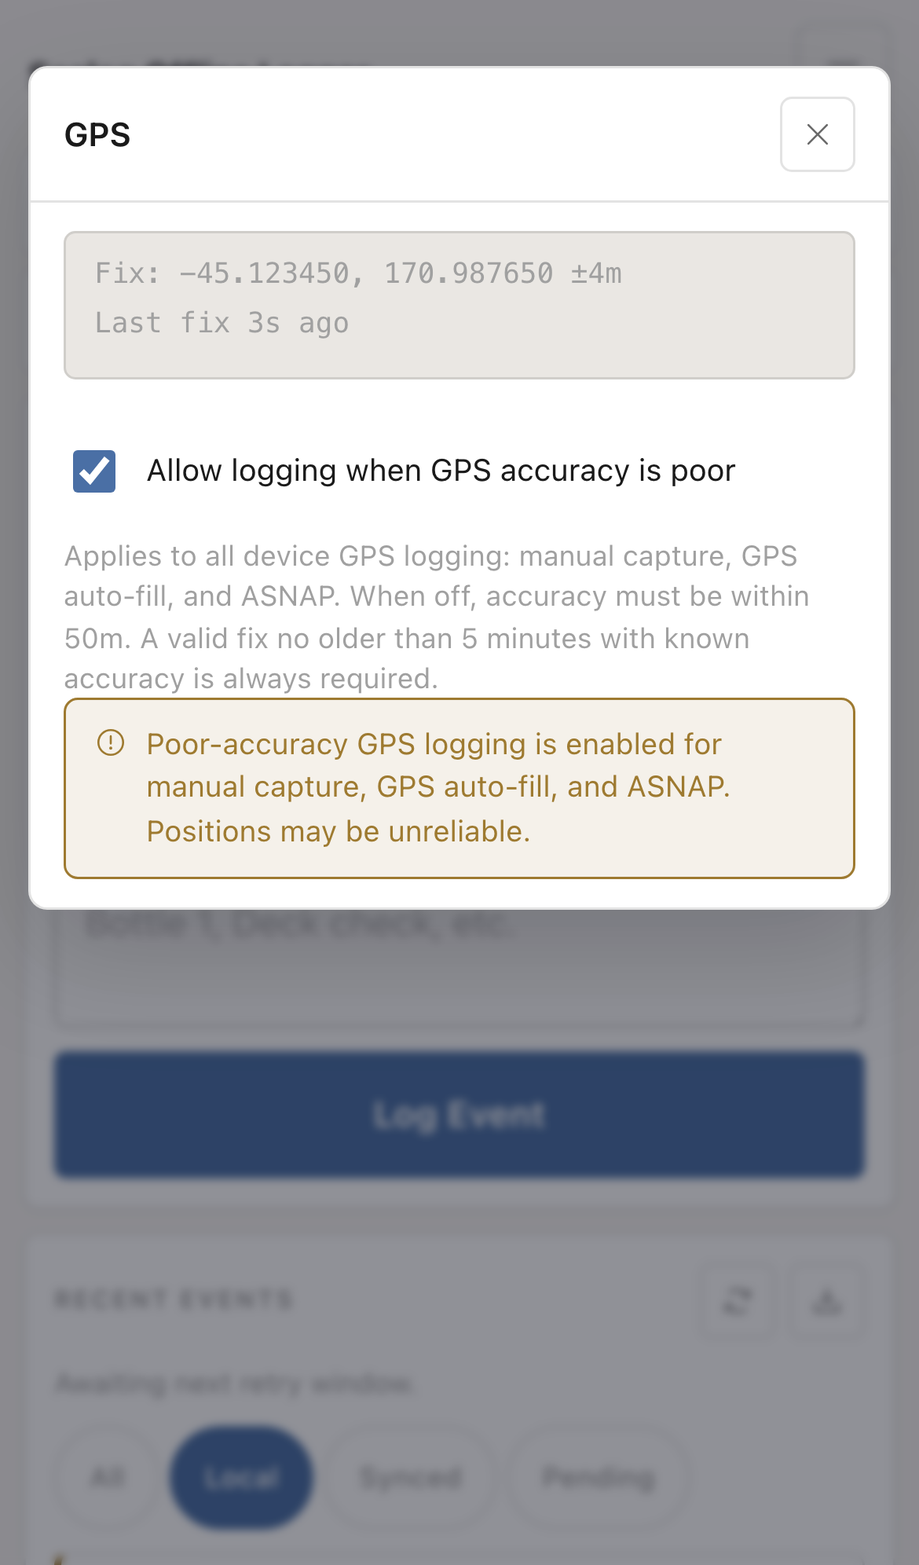
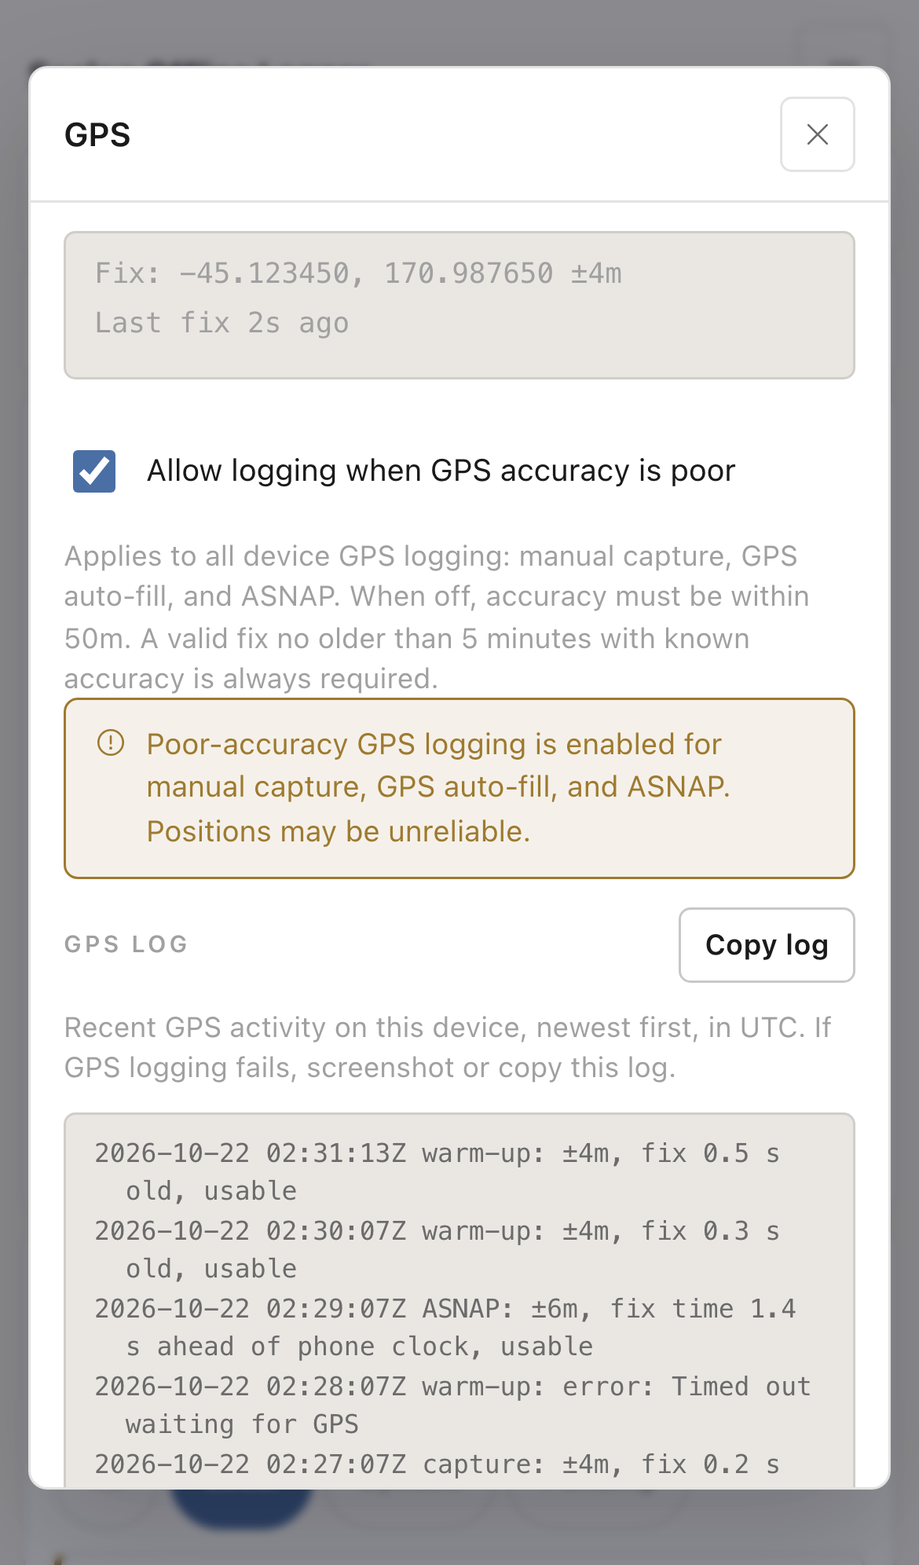
bump version to v1.2.0.10 and refresh screenshots including the new gps log screenshot

diff --git a/sw.js b/sw.js
@@ -6,7 +6,7 @@
 
 import { normalizePath, buildCacheKeys, isNetworkFirstAssetPath, isAppShellResponse } from './src/sw/helpers.js';
 
-const CACHE_VERSION = 'v1.2.0.9';
+const CACHE_VERSION = 'v1.2.0.10';
 /** @type {string} Full cache key combining the prefix and version. */
 const CACHE_NAME = `sealog-offline-${CACHE_VERSION}`;
 /** Example deployment path prefixes for nginx routing. */

diff --git a/src/config/constants.js b/src/config/constants.js
@@ -5,7 +5,7 @@
  */
 
 /** Semver-ish tag used as the Cache API key suffix and displayed as the app version. */
-export const CACHE_VERSION = 'v1.2.0.9';
+export const CACHE_VERSION = 'v1.2.0.10';
 
 /** Options passed to navigator.geolocation.getCurrentPosition. Timeout 10 s. */
 export const GEO_OPTIONS = Object.freeze({

diff --git a/docs/QA_PLAN.md b/docs/QA_PLAN.md
@@ -2,7 +2,7 @@
 
 Mark each scenario ✔ pass / ✖ fail / △ blocked. Capture screenshots of status messages or modals for the test log.
 
-Record the app and worker versions (both `v1.2.0.9` for this release), browser/OS, deployment URL, and whether the browser tab or installed app is under test. Cover at least one iPhone and one Android. Use a disposable test profile for first-run/reset scenarios; do not clear production site data or uninstall an app holding unsynced events.
+Record the app and worker versions (both `v1.2.0.10` for this release), browser/OS, deployment URL, and whether the browser tab or installed app is under test. Cover at least one iPhone and one Android. Use a disposable test profile for first-run/reset scenarios; do not clear production site data or uninstall an app holding unsynced events.
 
 Use a staging Sealog server and test account for captures, edits, clears, and forced responses. For each failure, record the scenario number, UTC time, exact message, and affected `localId`/`serverId` from the CSV when available. Do not attach credentials or session tokens. Compare server results using the same account and cruise as the test.
 
@@ -12,7 +12,7 @@ Run installation/offline loading, capture/sync, export, and settings checks on b
 
 | # | Scenario | Device | Steps | Expected | Status |
 |---|---|---|---|---|---|
-| 1 | First-run install | iPhone Safari | In a fresh test profile, browse to the trusted HTTPS vessel app URL → Add to Home Screen → launch it and wait for worker control → disable network and reopen | Both version labels show v1.2.0.9 and the installed vessel app reopens offline. Settings prompts sign-in; closing Settings allows manual capture while signed out. The deployment chooser is not the installed page. | ☐ |
+| 1 | First-run install | iPhone Safari | In a fresh test profile, browse to the trusted HTTPS vessel app URL → Add to Home Screen → launch it and wait for worker control → disable network and reopen | Both version labels show v1.2.0.10 and the installed vessel app reopens offline. Settings prompts sign-in; closing Settings allows manual capture while signed out. The deployment chooser is not the installed page. | ☐ |
 | 2 | First-run install | Android Chrome | In a fresh test profile, open the trusted HTTPS vessel app URL → install through the browser menu or offered prompt → launch, complete loading, disable network and reopen | Same offline behavior as 1. Check the browser tab and installed app separately; do not assume storage is shared between launch modes. | ☐ |
 | 3 | Theme picker - manual | iPhone | Settings → Theme → tap Light / Honey / Ocean | Each preset applies and persists after reload. Crossfade is used only when supported and reduced motion is not requested. | ☐ |
 | 4 | Theme picker - system follow | iPhone | With no saved preset in the test profile, toggle iOS Light/Dark while the app is open; then choose Honey and toggle the OS appearance again | Without a saved choice, app follows Light → Light, Dark → Ocean. After a manual choice it stays Honey. No crossfade on initial boot. There is no separate accent picker. | ☐ |
@@ -78,11 +78,11 @@ Run installation/offline loading, capture/sync, export, and settings checks on b
 
 | # | Scenario | Device | Steps | Expected | Status |
 |---|---|---|---|---|---|
-| 24 | Update modal | iPhone | In disposable staging only, serve a controlled worker/app fixture with a different reported version → trigger an update check | After installation, the centered modal offers Reload now. Accepting reloads the page; app and worker labels agree on the staged fixture. Existing events/settings remain, and a subsequent offline reopen succeeds. The delivered release remains v1.2.0.9. | ☐ |
+| 24 | Update modal | iPhone | In disposable staging only, serve a controlled worker/app fixture with a different reported version → trigger an update check | After installation, the centered modal offers Reload now. Accepting reloads the page; app and worker labels agree on the staged fixture. Existing events/settings remain, and a subsequent offline reopen succeeds. The delivered release remains v1.2.0.10. | ☐ |
 | 25 | Update modal - "Not now" | iPhone | Update modal appears → tap Not now | Modal dismisses and the same reported version is suppressed for this page session. A different reported version can prompt again. | ☐ |
 | 26 | SW update trigger - visibility | iPhone | Serve the staging update fixture from 24 → background the app → return | Foregrounding triggers an update check, subject to the 10-second check throttle. After installation, the different version is offered; no fixed download time is guaranteed. | ☐ |
 | 27 | SW update trigger - reconnect | iPhone | Serve the staging update fixture from 24 → restore network connectivity | Reconnection triggers a check while online. After installation, the different version is offered. | ☐ |
-| 37 | Same-version replacement | Staging browser | Replace served files with a controlled test fixture that still reports v1.2.0.9 → reconnect and reload using [Manual Update](MANUAL_UPDATE.md) | Do not require a new-version prompt. Verify served file contents and the fixture's actual behavior; matching app/sw labels alone cannot identify which same-version snapshot loaded. Preserve the queue and test offline reopening. | ☐ |
+| 37 | Same-version replacement | Staging browser | Replace served files with a controlled test fixture that still reports v1.2.0.10 → reconnect and reload using [Manual Update](MANUAL_UPDATE.md) | Do not require a new-version prompt. Verify served file contents and the fixture's actual behavior; matching app/sw labels alone cannot identify which same-version snapshot loaded. Preserve the queue and test offline reopening. | ☐ |
 
 ## Misc
 
@@ -97,6 +97,6 @@ Run installation/offline loading, capture/sync, export, and settings checks on b
 - Scenario 10 needs sign-in and device GPS. Scenario 11 needs server-side vehicle and vessel telemetry bracketing the event timestamp.
 - For scenarios 30-33, exercise both cached/server templates and fallbacks. Preserve any saved edit-only or partial configuration when server templates refresh or return under a different ID with the same event value.
 - Scenarios 16, 19, and 34-37 need controlled server/browser fixtures; use the E2E examples in [Testing](TESTING.md) as a starting point. Do not force failures on a live operational server.
-- Scenarios 24-27 use distinct reported versions only in disposable staging fixtures. Scenario 37 covers replacement while retaining v1.2.0.9. Periodic checks run every five minutes; configured vessel paths are required for worker registration.
+- Scenarios 24-27 use distinct reported versions only in disposable staging fixtures. Scenario 37 covers replacement while retaining v1.2.0.10. Periodic checks run every five minutes; configured vessel paths are required for worker registration.
 - Scenarios 6, 8, 9, and 42 cover the tile-as-button + diagnostic modal pattern. Scenarios 39–41 cover override persistence, invalid/stale fixes, and operations that do not record new device GPS. Use controlled browser GPS fixtures when physical conditions cannot be reproduced; repeat ordinary capture/edit checks offline and while signed out, and sign in for automatic ASNAP.
 - Attach expected-versus-observed results for blocked/failed checks. A fixture limitation, unavailable physical GPS condition, or inaccessible server should be marked blocked with its reason, not passed.

diff --git a/docs/MANUAL_UPDATE.md b/docs/MANUAL_UPDATE.md
@@ -1,6 +1,6 @@
 # Manual updates and rollback
 
-This guide deploys **v1.2.0.9** from a workstation using rsync. Serving this static client does not require Git, Node.js, npm, or the test suite on the production host; Sealog Server has its own backend requirements. There is no application build step and no automated server installer in this repository.
+This guide deploys **v1.2.0.10** from a workstation using rsync. Serving this static client does not require Git, Node.js, npm, or the test suite on the production host; Sealog Server has its own backend requirements. There is no application build step and no automated server installer in this repository.
 
 For a new host, start with [Installation](INSTALLATION.md), which covers DNS,
 certificates, nginx, backends, and device trust. Return here when that guide asks
@@ -109,7 +109,7 @@ Requires the GitHub CLI and an available release in your source repository. Repl
 
 ```bash
 SOURCE_REPO='OWNER/REPOSITORY'
-release_tag=v1.2.0.9
+release_tag=v1.2.0.10
 download_dir=$(mktemp -d /tmp/sealog-download.XXXXXX)
 stage=$(mktemp -d /tmp/sealog-app.XXXXXX)
 
@@ -129,7 +129,7 @@ Stop if downloading, checksum verification, or extraction fails. On Linux, use `
 Run this from the repository root. It copies the files currently on disk, including local changes; use a verified release checkout for a reproducible deployment.
 
 ```bash
-release_tag=v1.2.0.9
+release_tag=v1.2.0.10
 stage=$(mktemp -d /tmp/sealog-app.XXXXXX)
 
 rsync -rp --chmod=D755,F644 \
@@ -159,7 +159,7 @@ Before either type of bundle is transferred, check the two runtime versions:
 grep 'CACHE_VERSION =' "$stage/sw.js" "$stage/src/config/constants.js"
 ```
 
-Both should say `v1.2.0.9`. If you changed artwork, make sure the staged icon bytes
+Both should say `v1.2.0.10`. If you changed artwork, make sure the staged icon bytes
 and URL revisions include those changes too. Keep the local staged directory
 until deployment verification succeeds.
 
@@ -192,7 +192,7 @@ The following command runs from the workstation. It creates a backup on an exist
 ```bash
 ssh -t "$prod" '
   set -eu
-  stage="$HOME/sealog-update-v1.2.0.9"
+  stage="$HOME/sealog-update-v1.2.0.10"
   web_root=/srv/sealog-offline
   backup="/srv/sealog-offline-backup-$(date -u +%Y%m%dT%H%M%SZ)"
 
@@ -224,7 +224,7 @@ For a directory dedicated entirely to this app, preview an exact mirror in a
 **server shell**, with `stage` and `web_root` set to the same paths used above:
 
 ```bash
-stage="$HOME/sealog-update-v1.2.0.9"
+stage="$HOME/sealog-update-v1.2.0.10"
 web_root=/srv/sealog-offline
 sudo rsync -rpn --delete --itemize-changes --exclude='/sw.js' \
   "$stage/" "$web_root/"
@@ -256,12 +256,12 @@ curl -fsS -H 'Cache-Control: no-cache' "$origin/sealog-a/src/config/constants.js
   | grep 'CACHE_VERSION ='
 ```
 
-Both must show **`v1.2.0.9`**. Check the other configured vessel routes too. App HTML, JavaScript, the manifest, and the worker should use `Cache-Control: no-cache`, as in the reference configuration. For curl with a private CA, install that CA or supply its certificate with `--cacert`.
+Both must show **`v1.2.0.10`**. Check the other configured vessel routes too. App HTML, JavaScript, the manifest, and the worker should use `Cache-Control: no-cache`, as in the reference configuration. For curl with a private CA, install that CA or supply its certificate with `--cacert`.
 
 On each installed device:
 
 1. Open or foreground the app while connected to the deployment network. It checks for updates on startup, foreground/reconnect, and periodically while online.
-2. Tap **Reload now** when prompted. Confirm the app and worker versions in Settings both show **v1.2.0.9**. A same-version deployment can update files without a new-version prompt; foreground and reload the connected app, then verify the actual changed behavior/assets as well as the version labels.
+2. Tap **Reload now** when prompted. Confirm the app and worker versions in Settings both show **v1.2.0.10**. A same-version deployment can update files without a new-version prompt; foreground and reload the connected app, then verify the actual changed behavior/assets as well as the version labels.
 3. Confirm existing events and settings remain present. A template with no saved rules should receive default GPS rules without opening Manage rules. Existing choices, including None and edit-only rules, should remain unchanged.
 4. Check a normal capture and sync. Saving a rule change should update the capture form immediately.
 5. After the connected reload, disconnect and reopen the app to verify offline operation. Reconnect afterward.

diff --git a/docs/QUICK_START.md b/docs/QUICK_START.md
@@ -1,6 +1,6 @@
 # Quick Start
 
-This guide covers **v1.2.0.9** and assumes the app is already hosted on the ship network. Your IT team supplies the HTTPS address and Sealog account details. For server setup, see [Installation](INSTALLATION.md); for replacing a deployed release, see [Manual Update](MANUAL_UPDATE.md).
+This guide covers **v1.2.0.10** and assumes the app is already hosted on the ship network. Your IT team supplies the HTTPS address and Sealog account details. For server setup, see [Installation](INSTALLATION.md); for replacing a deployed release, see [Manual Update](MANUAL_UPDATE.md).
 
 ## 1. Open the app
 
@@ -10,7 +10,7 @@ before opening the app. IT may already have completed this on managed devices.
 
 1. Connect to the ship network and open the supplied HTTPS address. If the landing page lists several vessels, choose yours.
 2. Allow location access when requested. Wait for the app to finish loading before going offline. If Settings opens automatically, sign in or close it to capture while signed out.
-3. Add the vessel's app page to your Home Screen if you want to launch it like an installed app. Open Settings and check that the **app** and **sw** version labels both show **v1.2.0.9**. Disconnect, close and reopen that same app page, and capture a test event before relying on it away from the network. The deployment chooser is not the page to install or test offline.
+3. Add the vessel's app page to your Home Screen if you want to launch it like an installed app. Open Settings and check that the **app** and **sw** version labels both show **v1.2.0.10**. Disconnect, close and reopen that same app page, and capture a test event before relying on it away from the network. The deployment chooser is not the page to install or test offline.
 
 Use the same address and browser or installed app to return to your saved records. If the browser reports a certificate warning, ask IT to check the connection. A trusted HTTPS connection is needed for GPS and the offline app installation.
 
@@ -59,6 +59,8 @@ With it off, recording a new device GPS fix requires accuracy of 50 metres or be
 Notes-only capture and edits that retain saved GPS values do not need a new fix. This setting does not affect coordinates supplied by Sealog server backfill.
 
 If GPS logging fails, screenshot the **GPS log** at the bottom of the GPS dialog, or tap **Copy log**, and send it to IT. The log lists recent GPS requests on this device and contains no coordinates. [Troubleshooting](TROUBLESHOOTING.md) explains how to read it.
+
+![GPS log listing recent warm-up, capture, and ASNAP fixes with a timeout error and Copy log button](screenshots/12-gps-log.png)
 
 ## 5. Capture an event
 

diff --git a/docs/INSTALLATION.md b/docs/INSTALLATION.md
@@ -1,6 +1,6 @@
 # Install the application
 
-This walkthrough takes a customized **v1.2.0.9** checkout to a working HTTPS
+This walkthrough takes a customized **v1.2.0.10** checkout to a working HTTPS
 installation. It uses a Linux nginx server and a separate administrator
 workstation. The app is served directly from its source files; **there is no
 application build command**. Node.js is only needed for development tools, tests,
@@ -47,7 +47,7 @@ cd sealog-offline
 
 Use an authenticated clone method if the repository is private. All subsequent
 workstation paths assume this repository root. Review the checkout's version;
-the current source is v1.2.0.9. A release tag or downloadable archive is only
+the current source is v1.2.0.10. A release tag or downloadable archive is only
 available after the repository maintainer publishes one.
 
 ## 2. Choose and customize the deployment
@@ -263,7 +263,7 @@ curl --cacert "$ca_file" -fsS "$origin/sealog-a/src/config/constants.js" | grep 
 Omit `--cacert "$ca_file"` if curl already trusts the issuer. Do not use `-k` to
 pass acceptance checks: it skips the trust and hostname verification needed by
 the devices. Expect 200 responses, JavaScript MIME types for both worker files,
-an image MIME type for the icon, and v1.2.0.9 in both constants. Prefixed app files
+an image MIME type for the icon, and v1.2.0.10 in both constants. Prefixed app files
 should carry `Cache-Control: no-cache`. Repeat for every configured app prefix
 and verify the root-level app assets too; the worker fetches all of them.
 
@@ -287,7 +287,7 @@ prove account permissions or writing events works; verify those in a test cruise
    the expected templates and cruise are available. Remove any development API
    override as described in [Customization](CUSTOMIZATION.md#override-the-event-api-only-when-needed).
 3. Grant location permission, then check GPS fix age and accuracy. Open Settings
-   and wait for both **app** and **sw** to show **v1.2.0.9**.
+   and wait for both **app** and **sw** to show **v1.2.0.10**.
 4. Add the **deployment page** to the Home Screen, not the landing hub. Reopen
    that installed app while connected and verify its account/settings there.
 5. In the test cruise, capture and sync a harmless event. Confirm the record on

diff --git a/docs/TROUBLESHOOTING.md b/docs/TROUBLESHOOTING.md
@@ -1,6 +1,6 @@
 # Troubleshooting
 
-This guide covers **v1.2.0.9**. Read the status tiles and the message below **Recent Events** first. Open **Settings** to check the signed-in account and the **app** and **sw** version labels.
+This guide covers **v1.2.0.10**. Read the status tiles and the message below **Recent Events** first. Open **Settings** to check the signed-in account and the **app** and **sw** version labels.
 
 **Keep device data intact while troubleshooting.** Unsynced events exist in the browser/profile that captured them. Do not clear browser site data, delete its database, or uninstall the app to fix a display or update problem. The **Export CSV** button beside Recent Events can save a copy of those stored records. The app does not provide CSV import or restore, so an export is not a reason to delete the original queue.
 
@@ -156,7 +156,7 @@ IT can check the required server responses in the [API specification](SPECIFICAT
 
 **The app will not open offline**
 
-Reconnect to the ship network and open the same vessel address used previously. Let the app finish loading, accept any update prompt, and check that the Settings **app** and **sw** versions both show **v1.2.0.9** for this release. Then test an offline reopen. Use the vessel app page, not the deployment chooser. If it still fails, give IT both version labels and the address; preserve site data.
+Reconnect to the ship network and open the same vessel address used previously. Let the app finish loading, accept any update prompt, and check that the Settings **app** and **sw** versions both show **v1.2.0.10** for this release. Then test an offline reopen. Use the vessel app page, not the deployment chooser. If it still fails, give IT both version labels and the address; preserve site data.
 
 If **sw** says **inactive**, the page may be outside a configured vessel path. If it says **registration failed** or **unsupported**, ask IT to check the browser, HTTPS trust, worker URL, and served files using [Installation](INSTALLATION.md). Opening an HTML file directly is not an offline installation.
 

diff --git a/docs/RELEASE.md b/docs/RELEASE.md
@@ -1,6 +1,6 @@
 # Release checklist
 
-This checklist is for maintainers preparing a static-app release. The current version is v1.2.0.9. Use [Installation](INSTALLATION.md) for a new host, [Manual updates](MANUAL_UPDATE.md) for copying a release and rollback, and [Customization](CUSTOMIZATION.md) when preparing a deployment-specific variant.
+This checklist is for maintainers preparing a static-app release. The current version is v1.2.0.10. Use [Installation](INSTALLATION.md) for a new host, [Manual updates](MANUAL_UPDATE.md) for copying a release and rollback, and [Customization](CUSTOMIZATION.md) when preparing a deployment-specific variant.
 
 ## Prepare the source
 
@@ -60,7 +60,7 @@ The app-icon generator currently writes five PNGs: the 16/32-pixel favicons, 180
 After the validated commit has been tagged, run this from the repository root. Set `release_tag` to that tag; the example uses the current release. `git archive` reads the committed tag, so uncommitted changes are not included.
 
 ```bash
-release_tag=v1.2.0.9
+release_tag=v1.2.0.10
 release_dir=$(mktemp -d)
 git archive --format=tar --output="$release_dir/sealog-offline-${release_tag}.tar" \
   "$release_tag" \

diff --git a/docs/CUSTOMIZATION.md b/docs/CUSTOMIZATION.md
@@ -3,7 +3,7 @@
 The app is static HTML, CSS, and JavaScript. There is no build step, `.env` loader,
 or single deployment JSON file. Server routing lives in [`sealog.conf`](../sealog.conf),
 certificate inputs live in a local JSON file, and interface changes are made in
-the source files listed below. This guide describes **v1.2.0.9**.
+the source files listed below. This guide describes **v1.2.0.10**.
 
 For a new installation, make your choices here, then follow
 [Install the application](INSTALLATION.md). Use a separate test browser profile
@@ -260,7 +260,7 @@ contract, not just changing its visible label.
 
 ## Prepare the customized app for installation
 
-Keep **v1.2.0.9** for this release; documentation or initial deployment configuration
+Keep **v1.2.0.10** for this release; documentation or initial deployment configuration
 does not require a version increment. Future application releases should follow
 [Release](RELEASE.md) so app and worker versions stay aligned. Never rename the
 IndexedDB database or storage keys as a cosmetic branding change: existing device

diff --git a/docs/SPECIFICATION.md b/docs/SPECIFICATION.md
@@ -1,6 +1,6 @@
 # Sealog Server API - Offline Logger Integration
 
-The requests and response fields used by the v1.2.0.9 Offline Logger PWA. This is the client contract derived from [`app.js`](../app.js) and [`src/events/event-transform.js`](../src/events/event-transform.js), not a complete server API specification or a claim that every server release supports it. Verify the deployed server's schemas and permissions at its `/documentation` endpoint and exercise the [field QA checks](QA_PLAN.md).
+The requests and response fields used by the v1.2.0.10 Offline Logger PWA. This is the client contract derived from [`app.js`](../app.js) and [`src/events/event-transform.js`](../src/events/event-transform.js), not a complete server API specification or a claim that every server release supports it. Verify the deployed server's schemas and permissions at its `/documentation` endpoint and exercise the [field QA checks](QA_PLAN.md).
 
 Use [Installation](INSTALLATION.md) for hosting and [Customization](CUSTOMIZATION.md) for API-root and deployment-route changes.
 

diff --git a/docs/ARCHITECTURE.md b/docs/ARCHITECTURE.md
@@ -2,7 +2,7 @@
 
 How the Sealog Offline Logger is structured, what each module does, and how data flows through it.
 
-Intended for contributors maintaining the application. This guide describes the v1.2.0.9 client; deployment-specific server permissions and schemas are covered by the server's API documentation.
+Intended for contributors maintaining the application. This guide describes the v1.2.0.10 client; deployment-specific server permissions and schemas are covered by the server's API documentation.
 
 For a working deployment, start with [Installation](INSTALLATION.md). For changing routes, backend addresses, templates, appearance, or icons, use [Customization](CUSTOMIZATION.md). This guide explains the implementation behind those instructions.
 

diff --git a/docs/SECURITY.md b/docs/SECURITY.md
@@ -1,6 +1,6 @@
 # Security and deployment boundaries
 
-These notes describe the v1.2.0.9 app and reference [`sealog.conf`](../sealog.conf). Use them when configuring [installation](INSTALLATION.md), [certificates](cert-generation.md), and shared operator devices. The app is a static browser client; Sealog Server provides accounts, permissions, and the server-side record store.
+These notes describe the v1.2.0.10 app and reference [`sealog.conf`](../sealog.conf). Use them when configuring [installation](INSTALLATION.md), [certificates](cert-generation.md), and shared operator devices. The app is a static browser client; Sealog Server provides accounts, permissions, and the server-side record store.
 
 ## Reporting a vulnerability
 
